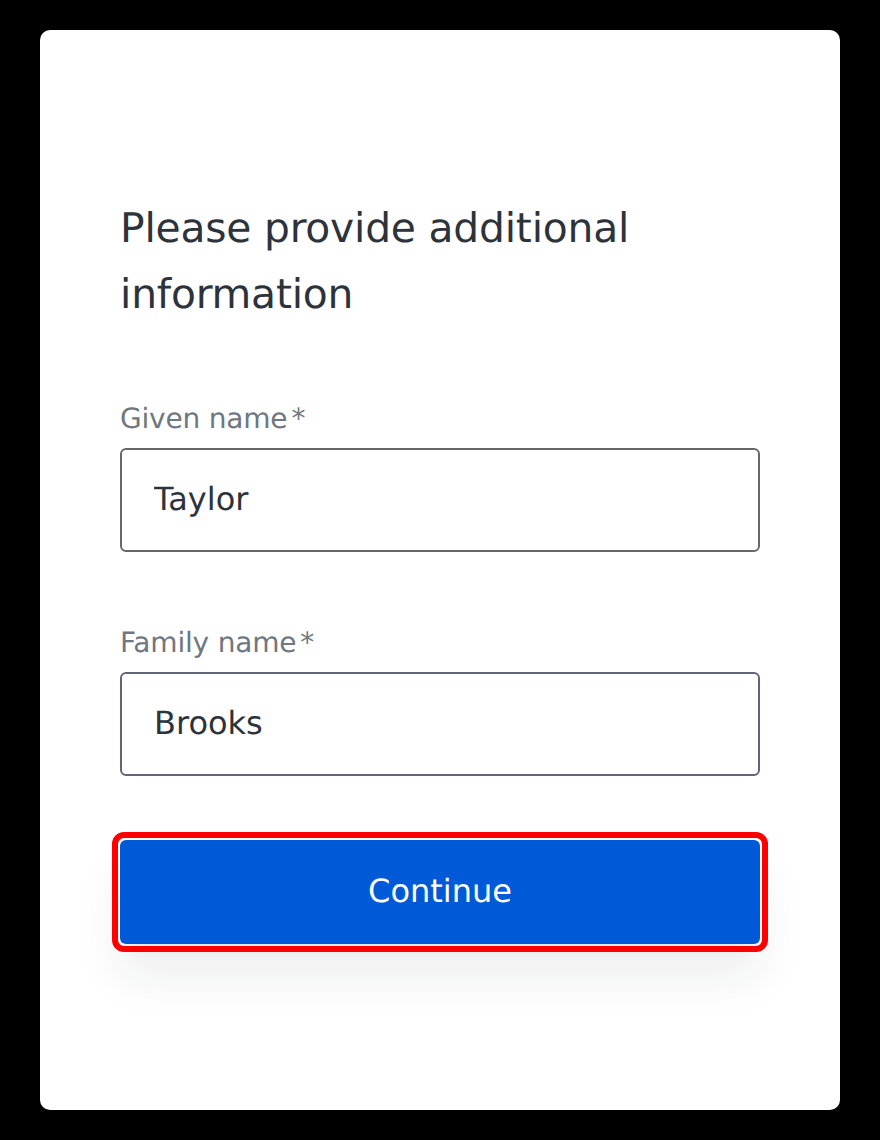
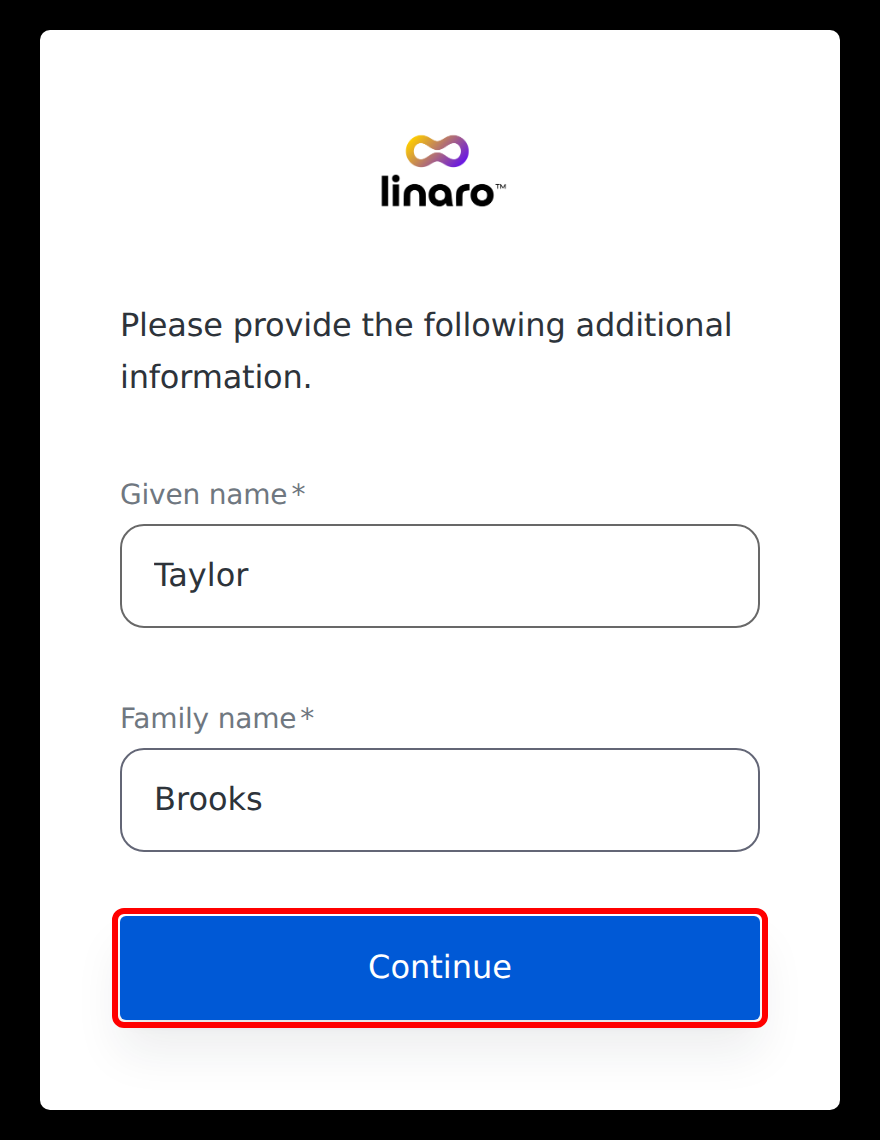
Document the sign-up consent screen, removing collaborators and resolving tickets
- Sign up: recapture the additional information screen, whose wording
  has changed, and add the new step where you accept the Privacy Policy
  and Terms & Conditions.
- Support Ticket Shared Access: show the collaborator list after adding
  someone, the "Already a member" case, and the Remove selected and
  Remove collaborator steps, now that adding collaborators works.
- Tickets: show the Resolve this issue option and its confirmation.

diff --git a/docs/source/submgmt/support-shared-access.rst b/docs/source/submgmt/support-shared-access.rst
@@ -53,13 +53,30 @@ Adding collaborators
        :scale: 50 %
        :alt: Add collaborator page with a user ticked and the Add 1 collaborator button highlighted
 
+You return to **Support Ticket Shared Access**, where the people you added
+are listed:
+
+.. image:: shared-access-5.png
+    :scale: 50 %
+    :alt: Collaborators table listing one active collaborator
+
+If someone is already a collaborator, the Add collaborator page shows
+**Already a member** and nothing changes.
+
 Removing collaborators
 ----------------------
 
-1. In the **Collaborators** table, tick each person you want to remove.
+1. In the **Collaborators** table, tick each person you want to remove, then
+   click on **Remove selected** *(n)*:
 
-2. Click on **Remove selected** *(n)*.
+   .. image:: shared-access-6.png
+       :scale: 50 %
+       :alt: Collaborators table with one collaborator ticked and the Remove selected (1) button highlighted
 
-3. Click on **Remove** to confirm.
+2. Check the email addresses in the dialog, then click on **Remove**:
+
+   .. image:: shared-access-7.png
+       :scale: 50 %
+       :alt: Remove collaborator dialog with the Remove button highlighted
 
 Removed collaborators may lose access to the subscription's support tickets.

diff --git a/docs/source/support/tickets.rst b/docs/source/support/tickets.rst
@@ -47,10 +47,23 @@ From a ticket you can:
       :alt: Ticket page with Show details highlighted
 
 * Add a comment or attachment in **Activity**, then click on **Post**.
-* Change the ticket's status, if any options are listed under **Status**
-  (for example "Resolve this issue"). Click on the option and confirm it in
-  the dialog that opens. Which options appear depends on the ticket's
-  current status; a resolved ticket may have none.
+* Change the ticket's status, if any options are listed under **Status**.
+  For example, to close a ticket you no longer need help with, click on
+  **Resolve this issue**:
+
+  .. image:: tickets-6.png
+      :scale: 50 %
+      :alt: Ticket page with the Resolve this issue option under Status highlighted
+
+  Then click on **Ok** to confirm:
+
+  .. image:: tickets-7.png
+      :scale: 50 %
+      :alt: Resolve this issue dialog with the Ok button highlighted
+
+  Which options appear depends on the ticket's current status; a resolved
+  ticket may have none.
+
 * Use **Grant Support Access** under **Support Data Access** to let Linaro
   Support see the data in your subscription while they work on the ticket.
   Once access has been granted, you can revoke it from the same place.

diff --git a/docs/source/using/signup.rst b/docs/source/using/signup.rst
@@ -34,7 +34,17 @@ Signing Up for a New Account
 
    .. image:: signup-4.png
        :scale: 50 %
-       :alt: Please provide additional information form with the Continue button highlighted
+       :alt: Please provide the following additional information form with the Continue button highlighted
+
+5. Read the **Privacy Policy** and **Terms & Conditions** (the links open in
+   a new tab or window), tick **I agree to the Privacy Policy and Terms &
+   Conditions**, and click on **Continue**:
+
+   .. image:: signup-6.png
+       :scale: 50 %
+       :alt: Screen asking you to accept the updated terms, with the agreement ticked and the Continue button highlighted
+
+   You can't continue until you tick the box.
 
 .. note::
 
